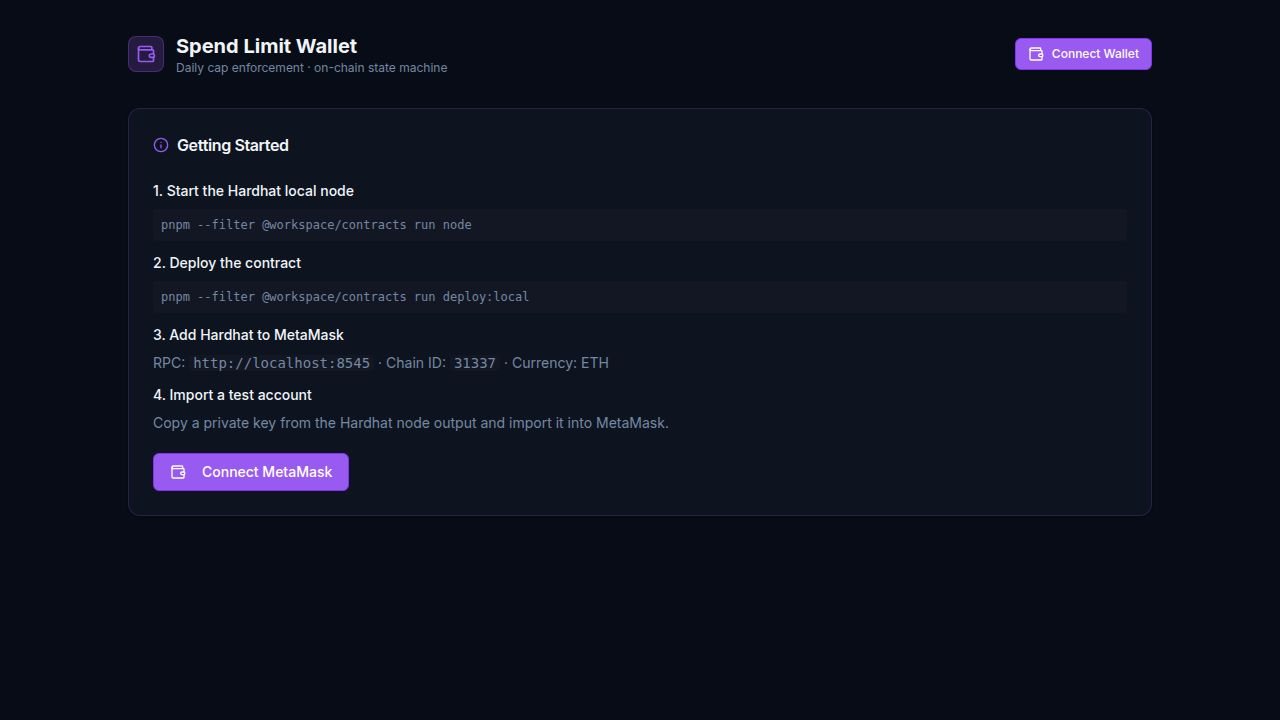
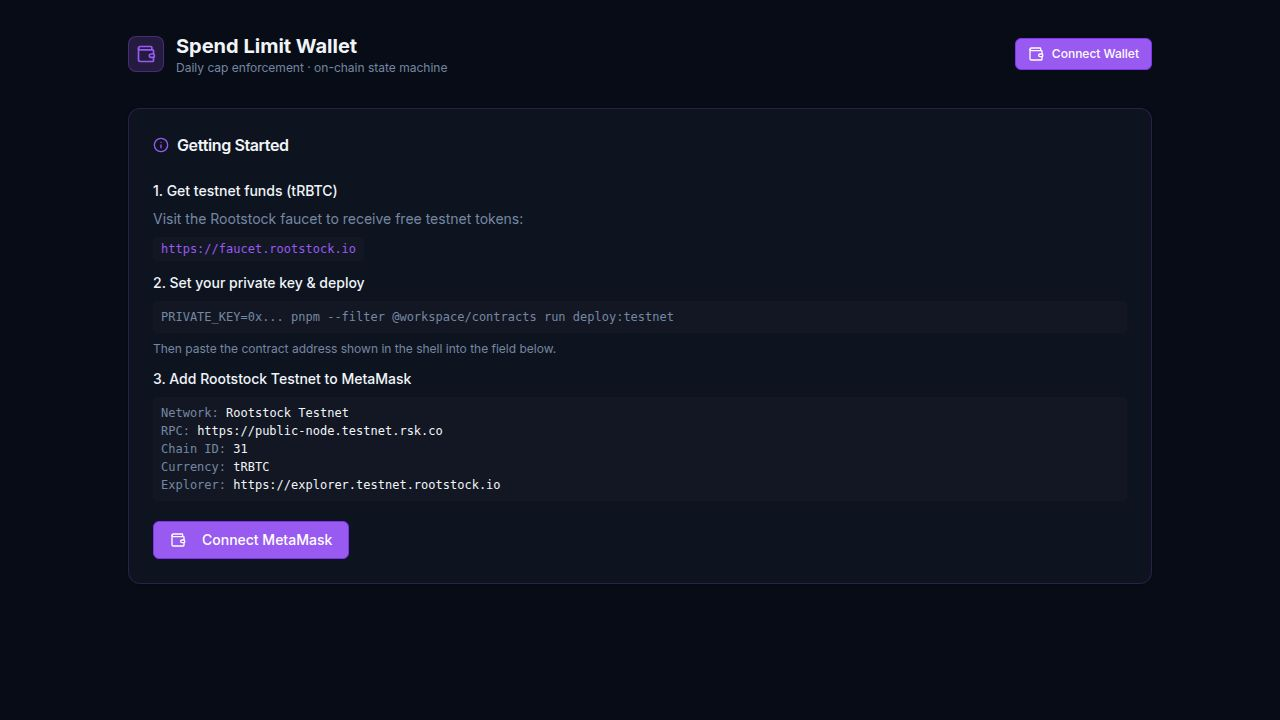
Switch dapp to Rootstock Testnet and update deployment scripts
Migrate the application's frontend and smart contract tooling to use the Rootstock Testnet, including updating wagmi configurations, Hardhat network settings, and the deploy script to be network-aware.

Replit-Commit-Author: Agent
Replit-Commit-Session-Id: 1d6d0bd6-a2d5-4d02-9327-e44acbe45587
Replit-Commit-Checkpoint-Type: full_checkpoint
Replit-Commit-Event-Id: bb2008d5-29ad-4959-bf81-e44ce99908cb
Replit-Commit-Screenshot-Url: https://storage.googleapis.com/screenshot-production-us-central1/6d33b511-8cb1-41cb-8561-921771fb3468/1d6d0bd6-a2d5-4d02-9327-e44acbe45587/InUY8hA
Replit-Helium-Checkpoint-Created: true

Changed region(s): [[0.0938, 0.2444, 0.5312, 0.7944]]

diff --git a/artifacts/spend-limit-wallet/src/pages/Dashboard.tsx b/artifacts/spend-limit-wallet/src/pages/Dashboard.tsx
@@ -9,7 +9,7 @@ import {
   useBalance,
 } from "wagmi";
 import { parseEther, formatEther, isAddress } from "viem";
-import { hardhat } from "wagmi/chains";
+import { rootstockTestnet } from "wagmi/chains";
 import { WALLET_ABI, STATE_LABELS, WALLET_ADDRESS } from "@/lib/contract";
 import { Button } from "@/components/ui/button";
 import { Input } from "@/components/ui/input";
@@ -89,7 +89,7 @@ function EventRow({ event }: { event: TxEvent }) {
       <div className="flex-1 min-w-0">
         <p className="text-sm text-foreground truncate">{event.description}</p>
         {event.amount && (
-          <p className="text-xs text-muted-foreground mt-0.5">{event.amount} ETH</p>
+          <p className="text-xs text-muted-foreground mt-0.5">{event.amount} tRBTC</p>
         )}
       </div>
       <span className="text-xs text-muted-foreground shrink-0">
@@ -151,7 +151,7 @@ export default function Dashboard() {
 
   const { data: userBalance, refetch: refetchBalance } = useBalance({
     address,
-    chainId: hardhat.id,
+    chainId: rootstockTestnet.id,
     query: { enabled: !!address },
   });
 
@@ -302,7 +302,7 @@ export default function Dashboard() {
   };
 
   // ── Wrong network warning ───────────────────────────────────────────────────
-  const wrongNetwork = isConnected && chain?.id !== hardhat.id;
+  const wrongNetwork = isConnected && chain?.id !== rootstockTestnet.id;
 
   return (
     <div className="min-h-screen bg-background p-4 md:p-8">
@@ -350,8 +350,8 @@ export default function Dashboard() {
             <div>
               <p className="text-sm font-medium text-destructive">Wrong network</p>
               <p className="text-xs text-muted-foreground mt-0.5">
-                Switch MetaMask to <strong>Localhost 8545</strong> (Chain ID: 31337). 
-                Make sure the Hardhat node is running.
+                Switch MetaMask to <strong>Rootstock Testnet</strong> (Chain ID: 31).
+                RPC: <code className="bg-destructive/20 rounded px-1">https://public-node.testnet.rsk.co</code>
               </p>
             </div>
           </div>
@@ -368,20 +368,31 @@ export default function Dashboard() {
             </CardHeader>
             <CardContent className="space-y-3 text-sm text-muted-foreground">
               <div className="space-y-2">
-                <p className="font-medium text-foreground">1. Start the Hardhat local node</p>
-                <pre className="bg-muted/50 rounded p-2 text-xs font-mono overflow-x-auto">pnpm --filter @workspace/contracts run node</pre>
+                <p className="font-medium text-foreground">1. Get testnet funds (tRBTC)</p>
+                <p>Visit the Rootstock faucet to receive free testnet tokens:</p>
+                <a
+                  href="https://faucet.rootstock.io"
+                  target="_blank"
+                  rel="noopener noreferrer"
+                  className="inline-block bg-muted/50 rounded px-2 py-1 text-xs font-mono text-primary hover:underline"
+                >
+                  https://faucet.rootstock.io
+                </a>
               </div>
               <div className="space-y-2">
-                <p className="font-medium text-foreground">2. Deploy the contract</p>
-                <pre className="bg-muted/50 rounded p-2 text-xs font-mono overflow-x-auto">pnpm --filter @workspace/contracts run deploy:local</pre>
+                <p className="font-medium text-foreground">2. Set your private key &amp; deploy</p>
+                <pre className="bg-muted/50 rounded p-2 text-xs font-mono overflow-x-auto whitespace-pre-wrap">{"PRIVATE_KEY=0x... pnpm --filter @workspace/contracts run deploy:testnet"}</pre>
+                <p className="text-xs">Then paste the contract address shown in the shell into the field below.</p>
               </div>
               <div className="space-y-2">
-                <p className="font-medium text-foreground">3. Add Hardhat to MetaMask</p>
-                <p>RPC: <code className="bg-muted/50 rounded px-1">http://localhost:8545</code> · Chain ID: <code className="bg-muted/50 rounded px-1">31337</code> · Currency: ETH</p>
-              </div>
-              <div className="space-y-2">
-                <p className="font-medium text-foreground">4. Import a test account</p>
-                <p>Copy a private key from the Hardhat node output and import it into MetaMask.</p>
+                <p className="font-medium text-foreground">3. Add Rootstock Testnet to MetaMask</p>
+                <div className="bg-muted/50 rounded p-2 text-xs font-mono space-y-0.5">
+                  <p>Network: <span className="text-foreground">Rootstock Testnet</span></p>
+                  <p>RPC: <span className="text-foreground">https://public-node.testnet.rsk.co</span></p>
+                  <p>Chain ID: <span className="text-foreground">31</span></p>
+                  <p>Currency: <span className="text-foreground">tRBTC</span></p>
+                  <p>Explorer: <span className="text-foreground">https://explorer.testnet.rootstock.io</span></p>
+                </div>
               </div>
               <Button className="mt-2" onClick={() => connect({ connector: connectors[0] })}>
                 <Wallet className="w-4 h-4 mr-2" />
@@ -430,22 +441,22 @@ export default function Dashboard() {
                     <StateBadge state={walletState as number | undefined} />
                   </div>
                   <CardDescription className="text-xs">
-                    {duration}h rolling window · {limitEth} ETH daily limit
+                    {duration}h rolling window · {limitEth} tRBTC daily limit
                   </CardDescription>
                 </CardHeader>
                 <CardContent className="space-y-5">
                   {/* Progress bar */}
                   <div>
                     <div className="flex justify-between text-xs text-muted-foreground mb-2">
-                      <span>Spent: {spentEth.toFixed(4)} ETH</span>
-                      <span>Limit: {limitEth.toFixed(4)} ETH</span>
+                      <span>Spent: {spentEth.toFixed(4)} tRBTC</span>
+                      <span>Limit: {limitEth.toFixed(4)} tRBTC</span>
                     </div>
                     <Progress
                       value={Math.min(progress, 100)}
                       className={`h-3 ${walletState === 2 ? "bg-destructive/20" : walletState === 1 ? "bg-accent/20" : "bg-muted"}`}
                     />
                     <p className="text-xs text-muted-foreground mt-1.5">
-                      Remaining: <span className="text-foreground font-medium">{remainingEth.toFixed(4)} ETH</span>
+                      Remaining: <span className="text-foreground font-medium">{remainingEth.toFixed(4)} tRBTC</span>
                     </p>
                   </div>
 
@@ -467,7 +478,7 @@ export default function Dashboard() {
                   {/* Contract balance */}
                   <div className="flex items-center justify-between rounded-lg border border-border bg-muted/20 px-4 py-3">
                     <span className="text-sm text-muted-foreground">Contract Balance</span>
-                    <span className="font-mono font-semibold text-foreground">{balanceEth.toFixed(4)} ETH</span>
+                    <span className="font-mono font-semibold text-foreground">{balanceEth.toFixed(4)} tRBTC</span>
                   </div>
 
                   {/* Owner badge */}
@@ -495,7 +506,7 @@ export default function Dashboard() {
                       Make a Spend
                     </CardTitle>
                     <CardDescription className="text-xs">
-                      Transfers ETH from the wallet to a recipient. Blocked if it would exceed the daily cap.
+                      Transfers tRBTC from the wallet to a recipient. Blocked if it would exceed the daily cap.
                     </CardDescription>
                   </CardHeader>
                   <CardContent className="space-y-3">
@@ -507,7 +518,7 @@ export default function Dashboard() {
                     />
                     <div className="flex gap-2">
                       <Input
-                        placeholder="Amount (ETH)"
+                        placeholder="Amount (tRBTC)"
                         type="number"
                         step="0.001"
                         min="0"
@@ -543,18 +554,18 @@ export default function Dashboard() {
                 <CardHeader>
                   <CardTitle className="text-base flex items-center gap-2">
                     <ArrowDownLeft className="w-4 h-4 text-accent" />
-                    Deposit ETH
+                    Deposit tRBTC
                   </CardTitle>
                   <CardDescription className="text-xs">
                     Fund the wallet so it can make spends. Anyone can deposit.
                     {userBalance && (
-                      <span className="ml-1 text-foreground">Your balance: {parseFloat(formatEther(userBalance.value)).toFixed(4)} ETH</span>
+                      <span className="ml-1 text-foreground">Your balance: {parseFloat(formatEther(userBalance.value)).toFixed(4)} tRBTC</span>
                     )}
                   </CardDescription>
                 </CardHeader>
                 <CardContent className="flex gap-2">
                   <Input
-                    placeholder="Amount (ETH)"
+                    placeholder="Amount (tRBTC)"
                     type="number"
                     step="0.01"
                     min="0"

diff --git a/lib/contracts/scripts/deploy.js b/lib/contracts/scripts/deploy.js
@@ -1,19 +1,22 @@
-const { ethers } = require("hardhat");
+const { ethers, network } = require("hardhat");
 const fs = require("fs");
 const path = require("path");
 
 async function main() {
   const [deployer] = await ethers.getSigners();
+  const chainId = (await ethers.provider.getNetwork()).chainId;
+  const isTestnet = network.name === "rskTestnet";
 
+  console.log("Network:", network.name, `(Chain ID: ${chainId})`);
   console.log("Deploying SpendLimitWallet...");
   console.log("Deployer:", deployer.address);
   console.log(
     "Balance:",
     ethers.formatEther(await ethers.provider.getBalance(deployer.address)),
-    "ETH"
+    isTestnet ? "tRBTC" : "ETH"
   );
 
-  // 1 ETH daily limit, 24-hour window
+  // 1 tRBTC/ETH daily limit, 24-hour window
   const dailyLimit = ethers.parseEther("1.0");
   const windowDuration = 86400;
 
@@ -22,15 +25,17 @@ async function main() {
   await wallet.waitForDeployment();
 
   const address = await wallet.getAddress();
-  console.log("SpendLimitWallet deployed to:", address);
+  console.log("\n✅ SpendLimitWallet deployed to:", address);
 
-  // Fund the wallet with 2 ETH from deployer so it can make spends
-  const fundTx = await deployer.sendTransaction({
-    to: address,
-    value: ethers.parseEther("2.0"),
-  });
-  await fundTx.wait();
-  console.log("Funded contract with 2 ETH");
+  // On localhost, auto-fund the contract for testing
+  if (!isTestnet) {
+    const fundTx = await deployer.sendTransaction({
+      to: address,
+      value: ethers.parseEther("2.0"),
+    });
+    await fundTx.wait();
+    console.log("Funded contract with 2 ETH (localhost only)");
+  }
 
   // Read ABI from Hardhat compilation artifacts
   const artifactPath = path.join(
@@ -42,8 +47,8 @@ async function main() {
   // Save deployment info + ABI for the frontend
   const deploymentInfo = {
     address,
-    chainId: 31337,
-    network: "localhost",
+    chainId: Number(chainId),
+    network: network.name,
     deployer: deployer.address,
     dailyLimitEth: "1.0",
     windowDurationSeconds: windowDuration,
@@ -61,13 +66,25 @@ async function main() {
 
   const outputPath = path.join(outputDir, "deployment.json");
   fs.writeFileSync(outputPath, JSON.stringify(deploymentInfo, null, 2));
-  console.log("Deployment info + ABI saved to:", outputPath);
+  console.log("Deployment info saved to:", outputPath);
 
-  console.log("\n✅ Done! Add Hardhat localhost to MetaMask:");
-  console.log("   Network: Localhost 8545");
-  console.log("   RPC URL: http://localhost:8545");
-  console.log("   Chain ID: 31337");
-  console.log("   Currency: ETH");
+  if (isTestnet) {
+    console.log("\n📋 Next steps:");
+    console.log("   1. Copy the contract address above");
+    console.log("   2. Set VITE_WALLET_ADDRESS=<address> or paste it in the dapp");
+    console.log("   3. Add Rootstock Testnet to MetaMask:");
+    console.log("      Network:  Rootstock Testnet");
+    console.log("      RPC URL:  https://public-node.testnet.rsk.co");
+    console.log("      Chain ID: 31");
+    console.log("      Currency: tRBTC");
+    console.log("      Explorer: https://explorer.testnet.rootstock.io");
+  } else {
+    console.log("\n📋 Next steps:");
+    console.log("   Add Hardhat Localhost to MetaMask:");
+    console.log("   RPC URL:  http://localhost:8545");
+    console.log("   Chain ID: 31337");
+    console.log("   Currency: ETH");
+  }
 }
 
 main().catch((error) => {

diff --git a/artifacts/spend-limit-wallet/src/lib/contract.ts b/artifacts/spend-limit-wallet/src/lib/contract.ts
@@ -1,11 +1,8 @@
 // ABI for SpendLimitWallet – kept in sync with contracts/SpendLimitWallet.sol
-// After deploying update WALLET_ADDRESS below (or re-run the deploy script).
-
-// Deterministic Hardhat address (first contract deployed by account #0 on a fresh node).
-// Override with VITE_WALLET_ADDRESS env var if you redeploy.
-export const WALLET_ADDRESS: `0x${string}` = (
-  import.meta.env.VITE_WALLET_ADDRESS ?? "0x5FbDB2315678afecb367f032d93F642f64180aa3"
-) as `0x${string}`;
+// Deploy to Rootstock Testnet, then paste the address below or set VITE_WALLET_ADDRESS.
+export const WALLET_ADDRESS: `0x${string}` | undefined = (
+  import.meta.env.VITE_WALLET_ADDRESS ?? undefined
+) as `0x${string}` | undefined;
 
 export const WALLET_ABI = [
   // ── Constructor ────────────────────────────────────────────────────────────

diff --git a/lib/contracts/hardhat.config.js b/lib/contracts/hardhat.config.js
@@ -19,6 +19,14 @@ module.exports = {
       url: "http://127.0.0.1:8545",
       chainId: 31337,
     },
+    // Rootstock Testnet
+    rskTestnet: {
+      url: "https://public-node.testnet.rsk.co",
+      chainId: 31,
+      accounts: process.env.PRIVATE_KEY ? [process.env.PRIVATE_KEY] : [],
+      // Rootstock uses legacy transactions — EIP-1559 is not supported
+      gasPrice: 65000000, // 0.065 gwei (above the 0.06 gwei minimum)
+    },
   },
   paths: {
     sources: "./contracts",

diff --git a/artifacts/spend-limit-wallet/src/lib/wagmi.ts b/artifacts/spend-limit-wallet/src/lib/wagmi.ts
@@ -1,11 +1,11 @@
 import { createConfig, http } from "wagmi";
-import { hardhat } from "wagmi/chains";
+import { rootstockTestnet } from "wagmi/chains";
 import { injected } from "wagmi/connectors";
 
 export const wagmiConfig = createConfig({
-  chains: [hardhat],
+  chains: [rootstockTestnet],
   connectors: [injected()],
   transports: {
-    [hardhat.id]: http("http://127.0.0.1:8545"),
+    [rootstockTestnet.id]: http("https://public-node.testnet.rsk.co"),
   },
 });

diff --git a/replit.md b/replit.md
@@ -2,7 +2,7 @@
 
 ## Overview
 
-A fully on-chain **Spend Limit Wallet** dapp with a real Solidity smart contract. The contract enforces a rolling time-window spending cap (e.g. 1 ETH per 24 hours) and implements a three-state machine: **IDLE → ACTIVE → LOCKED**.
+A fully on-chain **Spend Limit Wallet** dapp with a real Solidity smart contract. The contract enforces a rolling time-window spending cap (e.g. 1 tRBTC per 24 hours) and implements a three-state machine: **IDLE → ACTIVE → LOCKED**. Deployed and tested on **Rootstock Testnet** (Chain ID: 31).
 
 ## Stack
 
@@ -24,8 +24,8 @@ A fully on-chain **Spend Limit Wallet** dapp with a real Solidity smart contract
 │   └── spend-limit-wallet/  # React dapp frontend
 │       └── src/
 │           ├── lib/
-│           │   ├── wagmi.ts         # wagmi config (Hardhat localhost chain)
-│           │   ├── contract.ts      # SpendLimitWallet ABI + default address
+│           │   ├── wagmi.ts         # wagmi config (rootstockTestnet)
+│           │   ├── contract.ts      # SpendLimitWallet ABI + optional address
 │           │   └── deployment.json  # Written by deploy script
 │           ├── pages/Dashboard.tsx  # Main dapp UI
 │           └── App.tsx
@@ -34,7 +34,7 @@ A fully on-chain **Spend Limit Wallet** dapp with a real Solidity smart contract
 │       ├── contracts/
 │       │   └── SpendLimitWallet.sol
 │       ├── scripts/
-│       │   └── deploy.js    # Deploy to localhost, saves deployment.json
+│       │   └── deploy.js    # Network-aware deploy script
 │       └── hardhat.config.js
 ```
 
@@ -57,38 +57,36 @@ A fully on-chain **Spend Limit Wallet** dapp with a real Solidity smart contract
 ### Events
 - `SpendApproved` — successful spend executed
 - `SpendRejected` — spend blocked by limit
-- `Deposited` — ETH received
+- `Deposited` — tRBTC received
 - `WindowReset` — spending window expired and reset
 
-## Running the DApp
+## Deploying to Rootstock Testnet
 
-### 1. Start the Hardhat node (already configured as a workflow)
-```bash
-pnpm --filter @workspace/contracts run node
-```
+### 1. Get testnet tRBTC
+Visit https://faucet.rootstock.io to receive free testnet tokens.
 
 ### 2. Deploy the contract
 ```bash
-pnpm --filter @workspace/contracts run deploy:local
+PRIVATE_KEY=0x<your_private_key> pnpm --filter @workspace/contracts run deploy:testnet
 ```
+The script prints the contract address — paste it into the dapp or set `VITE_WALLET_ADDRESS`.
 
 ### 3. Configure MetaMask
-- **RPC URL**: http://localhost:8545
-- **Chain ID**: 31337
-- **Currency**: ETH
-- Import a test private key from the Hardhat node output (Account #0 is the owner)
+- **Network**: Rootstock Testnet
+- **RPC URL**: https://public-node.testnet.rsk.co
+- **Chain ID**: 31
+- **Currency**: tRBTC
+- **Explorer**: https://explorer.testnet.rootstock.io
 
-## Deployed Contract
+## Contract Address
 
-- **Address**: `0x5FbDB2315678afecb367f032d93F642f64180aa3` (deterministic on fresh Hardhat node)
-- **Daily limit**: 1 ETH
-- **Window**: 24 hours
-- **Initial funding**: 2 ETH (seeded by deploy script)
+Set `VITE_WALLET_ADDRESS=0x<address>` in the environment or paste it into the contract address field in the dapp. The dapp reads `import.meta.env.VITE_WALLET_ADDRESS` at build time and falls back to a runtime input field.
 
-## Re-deploy
+## Local Development (optional)
 
-If the Hardhat node restarts, redeploy with:
+For local testing, you can still use the Hardhat node:
 ```bash
+pnpm --filter @workspace/contracts run node
 pnpm --filter @workspace/contracts run deploy:local
 ```
-The address will always be `0x5FbDB2315678afecb367f032d93F642f64180aa3` on a fresh node.
+Note: the frontend is configured for Rootstock Testnet. To test locally, also switch `wagmi.ts` back to the `hardhat` chain.
